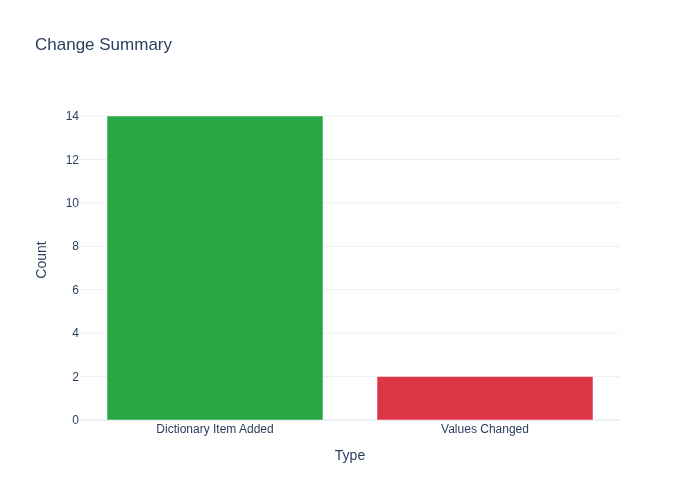
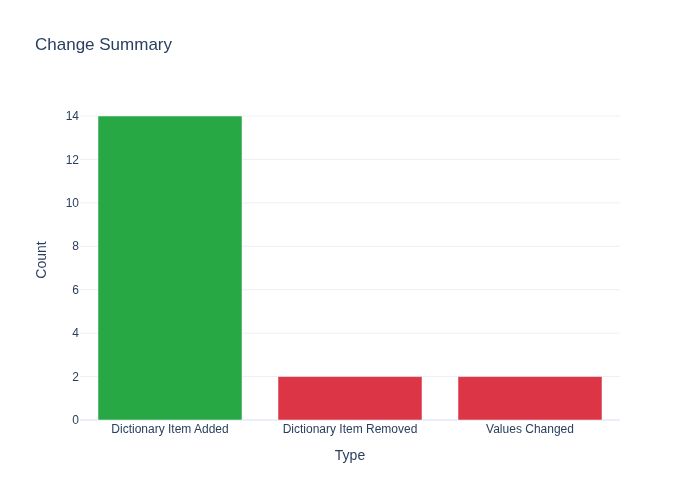
CPI responses and diff on 2025-10-29 05:11:54

Changed region(s): [[0.12, 0.21, 0.6, 0.87], [0.6, 0.75, 0.84, 0.87], [0.84, 0.75, 0.87, 0.84]]

diff --git a/results/diff_dashboard.html b/results/diff_dashboard.html
@@ -61,6 +61,8 @@ pre {
 <tr class='addition'><td>Dictionary Item Added</td><td>root['ns1:ZSD_BAPI_SALESORDER_SIMULATE']['C_ORDER_PARTNERS']['item']['LANGU']</td><td><pre></pre></td></tr>
 <tr class='addition'><td>Dictionary Item Added</td><td>root['ns1:ZSD_BAPI_SALESORDER_SIMULATE']['C_ORDER_PARTNERS']['item']['ADDR_TYPE']</td><td><pre></pre></td></tr>
 <tr class='addition'><td>Dictionary Item Added</td><td>root['ns1:ZSD_BAPI_SALESORDER_SIMULATE']['I_ORDER_HEADER_IN']['DOC_NUMBER']</td><td><pre></pre></td></tr>
+<tr class='deletion'><td>Dictionary Item Removed</td><td>root['ns1:ZSD_BAPI_SALESORDER_SIMULATE']['I_ORDER_HEADER_IN']['SALES_ORG']</td><td><pre></pre></td></tr>
+<tr class='deletion'><td>Dictionary Item Removed</td><td>root['ns1:ZSD_BAPI_SALESORDER_SIMULATE']['I_ORDER_HEADER_IN']['CD_CU_ISO1']</td><td><pre></pre></td></tr>
 <tr class='value'><td>Values Changed</td><td>root['ns1:ZSD_BAPI_SALESORDER_SIMULATE']['C_ORDER_PARTNERS']['item']['COUNTRY']</td><td><pre></pre></td></tr>
 <tr class='value'><td>Values Changed</td><td>root['ns1:ZSD_BAPI_SALESORDER_SIMULATE']['C_ORDER_PARTNERS']['item']['CITY']</td><td><pre></pre></td></tr>
 
